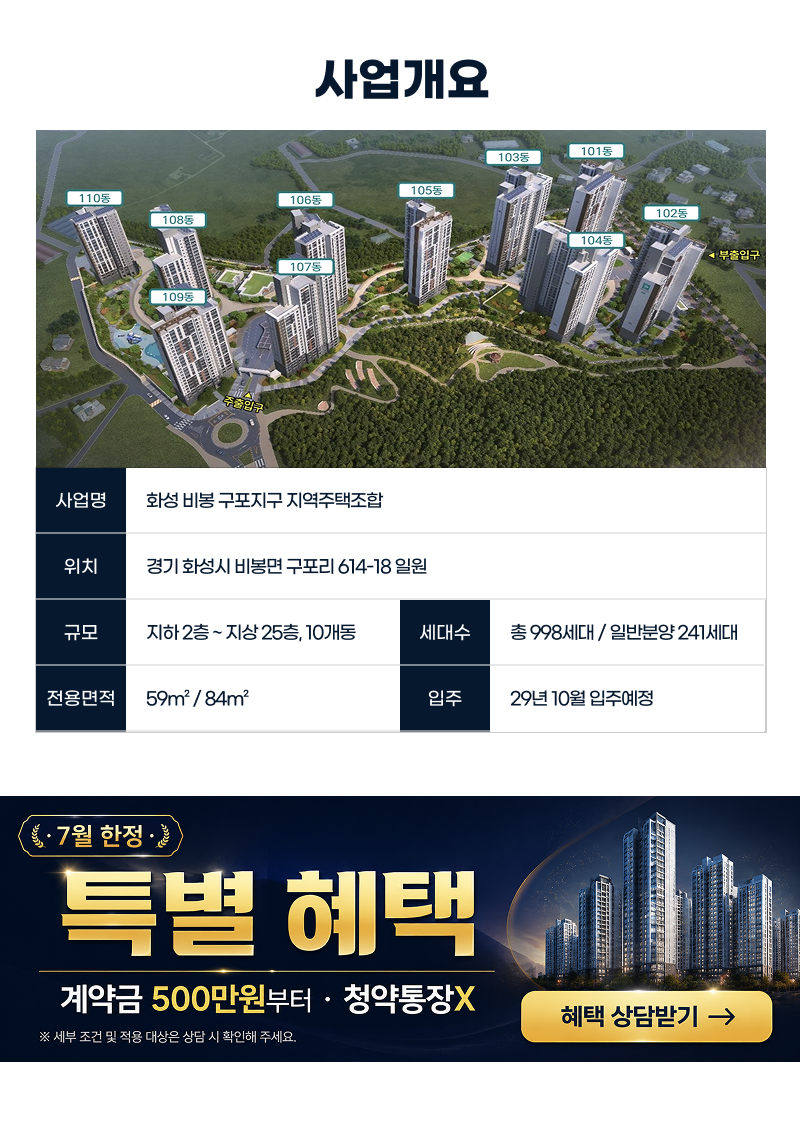
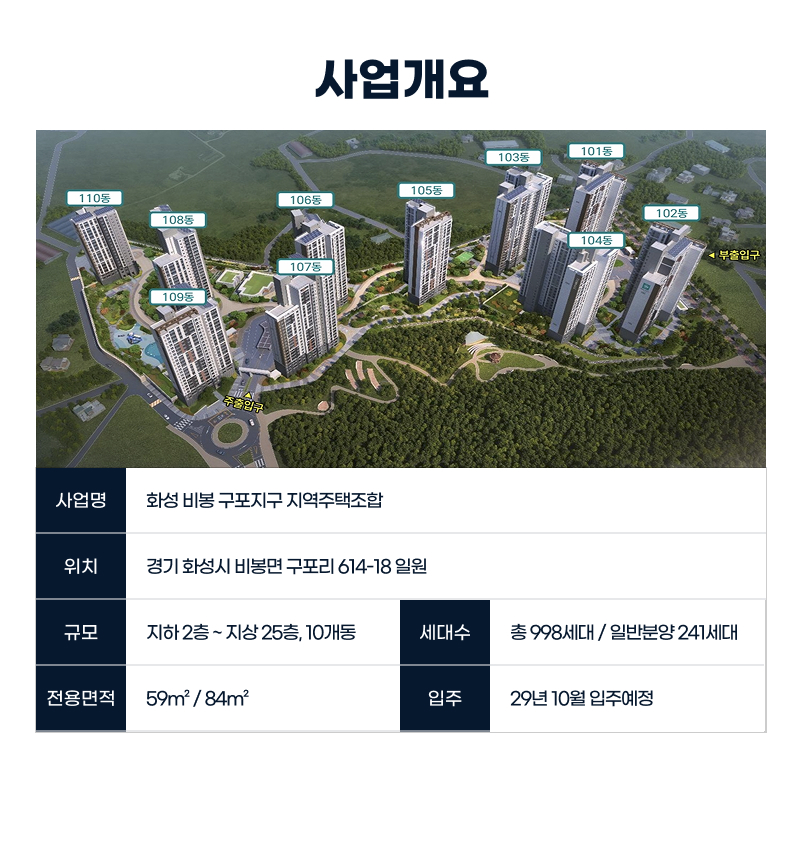
디자인추가

diff --git a/css/style.css b/css/style.css
@@ -1,6 +1,41 @@
-.mainimg {text-align:center;}
-.mainimg img{    width: 100%;
-    max-width: 700px;}
+
+ body { font-family: 'Noto Sans KR', sans-serif; background: #f8f9fa; margin: 0;padding:0;}
+.container { max-width: 500px; margin: 40px auto; background: #fff; padding: 30px; border-radius: 12px; box-shadow: 0 4px 12px rgba(0,0,0,0.1); }
+.form-group { margin-bottom: 15px; }
+label { display: block; margin-bottom: 6px; font-weight: bold; }
+input[type="text"], input[type="tel"] { width: 100%; padding: 10px; border: 1px solid #ccc; border-radius: 6px; box-sizing: border-box; }
+button[type="submit"] { width: 100%; padding: 14px; background: #1a73e8; color: white; border: none; border-radius: 6px; font-size: 16px; font-weight: bold; cursor: pointer; margin-top: 20px; }
+button[type="submit"]:disabled { background: #aaa; }
+
+/* 약관 영역 스타일 */
+.privacy-section { margin-top: 20px; padding-top: 15px; border-top: 1px solid #eee; font-size: 13px; color: #444; }
+.privacy-notice { font-size: 10px; color: #666; line-height: 1.5; margin-bottom: 12px; }
+.check-all-box { padding-bottom: 10px; margin-bottom: 10px; border-bottom: 1px solid #eee; font-weight: bold; }
+.check-list { display: flex; flex-direction: column; gap: 8px; }
+.check-item-row { display: flex; justify-content: space-between; align-items: center; }
+.check-item-row label { margin-bottom: 0; font-weight: normal; cursor: pointer; display: flex; align-items: center; gap: 6px; }
+.btn-view-terms { background: none; border: none; color: #888; text-decoration: underline; font-size: 12px; cursor: pointer; padding: 0; }
+.required-star { color: #e53e3e; }
+
+/* 모달 팝업 스타일 */
+.modal-overlay { display: none; position: fixed; top: 0; left: 0; width: 100%; height: 100%; background: rgba(0,0,0,0.5); z-index: 9999; justify-content: center; align-items: center; }
+.modal-content { background: #fff; width: 90%; max-width: 450px; padding: 20px; border-radius: 8px; max-height: 80vh; overflow-y: auto; }
+.modal-content h3 { margin-top: 0; font-size: 16px; color: #111; }
+.modal-body { font-size: 12px; color: #555; line-height: 1.6; margin-top: 10px; }
+.btn-close-modal { margin-top: 15px; width: 100%; padding: 10px; background: #111; color: #fff; border: none; border-radius: 4px; cursor: pointer; }
+
+
+.center-logo {
+padding-top:20px;
+  display: block;
+  max-width: 200px;
+  width: 100%;       /* 모바일 등 작은 화면에서 자동으로 비율 맞춰 축소 */
+  height: auto;
+  margin: 0 auto;    /* 좌우 중앙 정렬 핵심 */
+}
+
+.mainimg {text-align:center; max-width: 700px; margin: 0 auto; padding-bottom:50px}
+.mainimg img{width: 100%}
 /* 하단 고정 바 전체 스타일 */
 .bottom-bar {
   position: fixed;
@@ -79,41 +114,185 @@
   }
 }
 
-/* 전화 걸기 플로팅 버튼 */
+
+/* 전화 걸기 플로팅 버튼 기본 위치 설정 */
 .btn-call-floating {
   position: fixed;
   right: 20px;
-  bottom: 85px; /* 하단 바 높이 + 20px 띄움 */
+  bottom: 85px;
   width: 54px;
   height: 54px;
-  background-color: #25d366; /* 눈에 잘 띄는 초록색 (원하는 색상으로 변경 가능) */
+  background-color: #25d366;
   color: #ffffff;
-  border-radius: 50%; /* 완전한 원형/타원형 형태 */
+  border-radius: 50%;
   display: flex;
   justify-content: center;
   align-items: center;
   box-shadow: 0 4px 10px rgba(0, 0, 0, 0.3);
-  z-index: 10000; /* 하단 바보다 위로 올림 */
+  z-index: 10000;
   text-decoration: none;
-  transition: transform 0.2s ease, background-color 0.2s ease;
 }
 
-.btn-call-floating:hover {
-  background-color: #1eb954;
-  transform: scale(1.08); /* 마우스 올렸을 때 살짝 커짐 */
-}
-
-/* 모바일 화면 위치 미세 조정 */
-@media (max-width: 600px) {
-  .btn-call-floating {
-    right: 15px;
-    bottom: 75px; /* 모바일 하단 바 높이에 맞춰 조정 */
-    width: 48px;
-    height: 48px;
-  }
+/* 💬 아이콘 위 '전화문의' 말풍선 스타일 */
+.call-tooltip {
+  position: absolute;
+  bottom: 64px; /* 아이콘 위쪽 위치 */
+  left: 50%;
+  transform: translateX(-50%);
   
-  .btn-call-floating svg {
-    width: 20px;
-    height: 20px;
+  background-color: #111111; /* 어두운 배경 */
+  color: #ffffff;
+  font-size: 12px;
+  font-weight: bold;
+  padding: 5px 10px;
+  border-radius: 20px;
+  white-space: nowrap;
+  box-shadow: 0 2px 8px rgba(0,0,0,0.25);
+
+  /* 위아래로 둥실둥실 움직이는 애니메이션 */
+  animation: bounce 1.8s infinite ease-in-out;
+}
+
+/* 말풍선 꼬리표 (아래쪽 화살표) */
+.call-tooltip::after {
+  content: "";
+  position: absolute;
+  top: 100%; /* 말풍선 바로 밑에 배치 */
+  left: 50%;
+  transform: translateX(-50%);
+  border-width: 5px;
+  border-style: solid;
+  border-color: #111111 transparent transparent transparent;
+}
+
+/* 둥실둥실 바운스 애니메이션 */
+@keyframes bounce {
+  0%, 100% {
+    transform: translateX(-50%) translateY(0);
+  }
+  50% {
+    transform: translateX(-50%) translateY(-6px); /* 위로 6px 이동 */
+  }
+}
+
+/* 모바일 분기 처리 */
+@media (max-width: 600px) {
+  .call-tooltip {
+    bottom: 56px;
+    font-size: 11px;
+    padding: 4px 8px;
+  }
+}
+
+
+
+
+/* 푸터 영역 스타일 */
+.footer-section {
+  background-color: #222222;
+  color: #888888;
+  font-size: 12px;
+  line-height: 1.6;
+  padding: 30px 20px 100px 20px; /* 맨 아래 100px은 하단 고정 스티키바 자리를 위한 여백 */
+  border-top: 1px solid #333333;
+}
+
+.footer-container {
+  max-width: 1000px;
+  margin: 0 auto;
+}
+
+.footer-links {
+  margin-bottom: 12px;
+}
+
+.footer-links a {
+  color: #bbb;
+  text-decoration: none;
+}
+
+.footer-links a:hover {
+  text-decoration: underline;
+}
+
+.footer-links .divider {
+  margin: 0 8px;
+  color: #444;
+}
+
+.footer-info p {
+  margin: 4px 0;
+}
+
+.footer-info span {
+  display: inline-block;
+  margin-right: 12px;
+}
+
+.footer-disclaimer {
+  margin-top: 15px;
+  padding-top: 12px;
+  border-top: 1px solid #333;
+  color: #777;
+  font-size: 11px;
+}
+
+.footer-copy {
+  margin-top: 15px;
+  color: #555;
+  font-size: 11px;
+}
+
+/* 모바일 분기 처리 */
+@media (max-width: 600px) {
+  .footer-info span {
+    display: block; /* 모바일에서는 줄바꿈으로 깔끔하게 정렬 */
+    margin-right: 0;
+  }
+}
+
+/* 배너 감싸는 컨테이너 */
+.special-promo-container {
+  position: relative; /* 자식 요소의 기준점 */
+  width: 100%;
+  margin: 30px auto;
+  overflow: hidden; /* 이미지 밖으로 나가는 빛 줄기 숨김 */
+  border-radius: 12px;
+}
+
+/* 이미지 스타일 */
+.special-promo-container img {
+  width: 100%;
+  height: auto;
+  display: block;
+}
+
+/* 🌟 높이 0px 문제를 해결한 빛 줄기(light-line) */
+.light-line {
+  position: absolute;
+  top: 0;
+  left: -100%; /* 화면 왼쪽 밖에서 출발 */
+  width: 50%;
+  height: 100%; /* 이미지 높이 전체를 채움 */
+  background: linear-gradient(
+    90deg,
+    rgba(255, 255, 255, 0) 0%,
+    rgba(255, 255, 255, 0.5) 50%,
+    rgba(255, 255, 255, 0) 100%
+  );
+  transform: skewX(-25deg); /* 빛줄기를 대각선으로 기울임 */
+  animation: shine 3s infinite; /* 3초마다 반복 */
+}
+
+/* 빛이 지나가는 키프레임 애니메이션 */
+@keyframes shine {
+  0% {
+    left: -100%;
+  }
+  20% {
+    left: 200%; /* 20% 지점에서 빛이 오른쪽 끝으로 통과 */
+  }
+  100% {
+    left: 200%; /* 나머지 80% 시간 동안은 쉼 (주기적 반짝임) */
   }
 }

diff --git a/sites/site-a.html b/sites/site-a.html
@@ -3,37 +3,12 @@
 <head>
   <meta charset="UTF-8">
   <meta name="viewport" content="width=device-width, initial-scale=1.0">
-  <link rel="stylesheet" href="../css/style.css">
   <title>[야목역] 서희스타힐스 그랜드힐 관심고객 등록</title>
-  <style>
-    body { font-family: 'Noto Sans KR', sans-serif; background: #f8f9fa; margin: 0; padding: 20px; }
-    .container { max-width: 500px; margin: 40px auto; background: #fff; padding: 30px; border-radius: 12px; box-shadow: 0 4px 12px rgba(0,0,0,0.1); }
-    .form-group { margin-bottom: 15px; }
-    label { display: block; margin-bottom: 6px; font-weight: bold; }
-    input[type="text"], input[type="tel"] { width: 100%; padding: 10px; border: 1px solid #ccc; border-radius: 6px; box-sizing: border-box; }
-    button[type="submit"] { width: 100%; padding: 14px; background: #1a73e8; color: white; border: none; border-radius: 6px; font-size: 16px; font-weight: bold; cursor: pointer; margin-top: 20px; }
-    button[type="submit"]:disabled { background: #aaa; }
+    <link rel="stylesheet" href="../css/style.css">
 
-    /* 약관 영역 스타일 */
-    .privacy-section { margin-top: 20px; padding-top: 15px; border-top: 1px solid #eee; font-size: 13px; color: #444; }
-    .privacy-notice { font-size: 12px; color: #666; line-height: 1.5; margin-bottom: 12px; }
-    .check-all-box { padding-bottom: 10px; margin-bottom: 10px; border-bottom: 1px solid #eee; font-weight: bold; }
-    .check-list { display: flex; flex-direction: column; gap: 8px; }
-    .check-item-row { display: flex; justify-content: space-between; align-items: center; }
-    .check-item-row label { margin-bottom: 0; font-weight: normal; cursor: pointer; display: flex; align-items: center; gap: 6px; }
-    .btn-view-terms { background: none; border: none; color: #888; text-decoration: underline; font-size: 12px; cursor: pointer; padding: 0; }
-    .required-star { color: #e53e3e; }
-
-    /* 모달 팝업 스타일 */
-    .modal-overlay { display: none; position: fixed; top: 0; left: 0; width: 100%; height: 100%; background: rgba(0,0,0,0.5); z-index: 9999; justify-content: center; align-items: center; }
-    .modal-content { background: #fff; width: 90%; max-width: 450px; padding: 20px; border-radius: 8px; max-height: 80vh; overflow-y: auto; }
-    .modal-content h3 { margin-top: 0; font-size: 16px; color: #111; }
-    .modal-body { font-size: 12px; color: #555; line-height: 1.6; margin-top: 10px; }
-    .btn-close-modal { margin-top: 15px; width: 100%; padding: 10px; background: #111; color: #fff; border: none; border-radius: 4px; cursor: pointer; }
-  </style>
 </head>
 <body>
-
+<img src="../img/logo.svg" alt="로고" class="center-logo">
   <div class="container">
     <h2>[야목역] 서희스타힐스 그랜드힐 관심고객 등록</h2>
     
@@ -117,6 +92,11 @@
   <div class="mainimg">
     <img src="../img/main-img1.jpg" alt="">
     <img src="../img/main-img2.jpg" alt="">
+      <div class="special-promo-container">
+    <img src="../img/event.png" alt="특별 혜택"> 
+    <!-- path/to/your/image.png 를 실제 이미지 파일 경로로 바꿔주세요 -->
+    <div class="light-line"></div>
+    </div>
     <img src="../img/main-img3.jpg" alt="">
     <img src="../img/main-img4.jpg" alt="">
   </div>
@@ -137,11 +117,41 @@
 
 <!-- 전화 연결 플로팅 버튼 -->
 <a href="tel:1600-0640" class="btn-call-floating" aria-label="전화 상담 연결">
+  <!-- 추가된 말풍선 -->
+  <div class="call-tooltip">전화문의</div>
+
   <!-- SVG 전화 아이콘 -->
   <svg xmlns="http://www.w3.org/2000/svg" viewBox="0 0 24 24" width="24" height="24" fill="currentColor">
     <path d="M6.62 10.79a15.053 15.053 0 006.59 6.59l2.2-2.2c.27-.27.67-.36 1.02-.24 1.12.37 2.33.57 3.57.57.55 0 1 .45 1 1V20c0 .55-.45 1-1 1-9.39 0-17-7.61-17-17 0-.55.45-1 1-1h3.5c.55 0 1 .45 1 1 0 1.25.2 2.45.57 3.57.11.35.03.74-.25 1.02l-2.2 2.2z"/>
   </svg>
 </a>
+
+<!-- 하단 푸터 영역 -->
+<footer class="footer-section">
+  <div class="footer-container">
+    <!-- 약관 및 개인정보 처리방침 링크 -->
+    <div class="footer-links">
+      <a href="#" onclick="alert('개인정보 처리방침 모달 연동'); return false;"><strong>개인정보처리방침</strong></a>
+      <span class="divider">|</span>
+      <a href="#" onclick="alert('이용약관 연동'); return false;">이용약관</a>
+    </div>
+
+    <!-- 사업자 및 현장 정보 -->
+    <div class="footer-info">
+      <p><span>상호명: 바이닥터GN&#40;성남모란점&#41;</span> <span>대표자: 양보현</span> <span>사업자등록번호: 177-19-00530</span></p>
+      <p><span>주소: 경기도 성남시 중원구 시민로77번길 17, 동양빌라트</span> <span>문의전화: 1600-0640</span></p>
+    </div>
+
+    <!-- 법적 면책 조항 (분양 랜딩 필수) -->
+    <div class="footer-disclaimer">
+      ※ 본 웹사이트에 사용된 이미지, CG, 개발 호재 등은 소비자의 이해를 돕기 위해 제작된 것으로 실제 시공 및 인허가 과정에서 변경될 수 있습니다.<br>
+      ※ 본 사이트는 서희스타힐스 분양 정보 제공 및 관심고객 등록 안내를 위한 홍보용 웹사이트입니다.
+    </div>
+
+    <!-- 저작권 -->
+    <p class="footer-copy">Copyright © 야목역 서희스타힐스 그랜드힐. All rights reserved.</p>
+  </div>
+</footer>
 
   <script>
     const GAS_URL = "https://script.google.com/macros/s/AKfycbwJh34BIDRg65M-tawmZi82LLGfgeYW1m4vMHcAJQHEv9shra4vuONW0wKwZITvJCQ_/exec";
